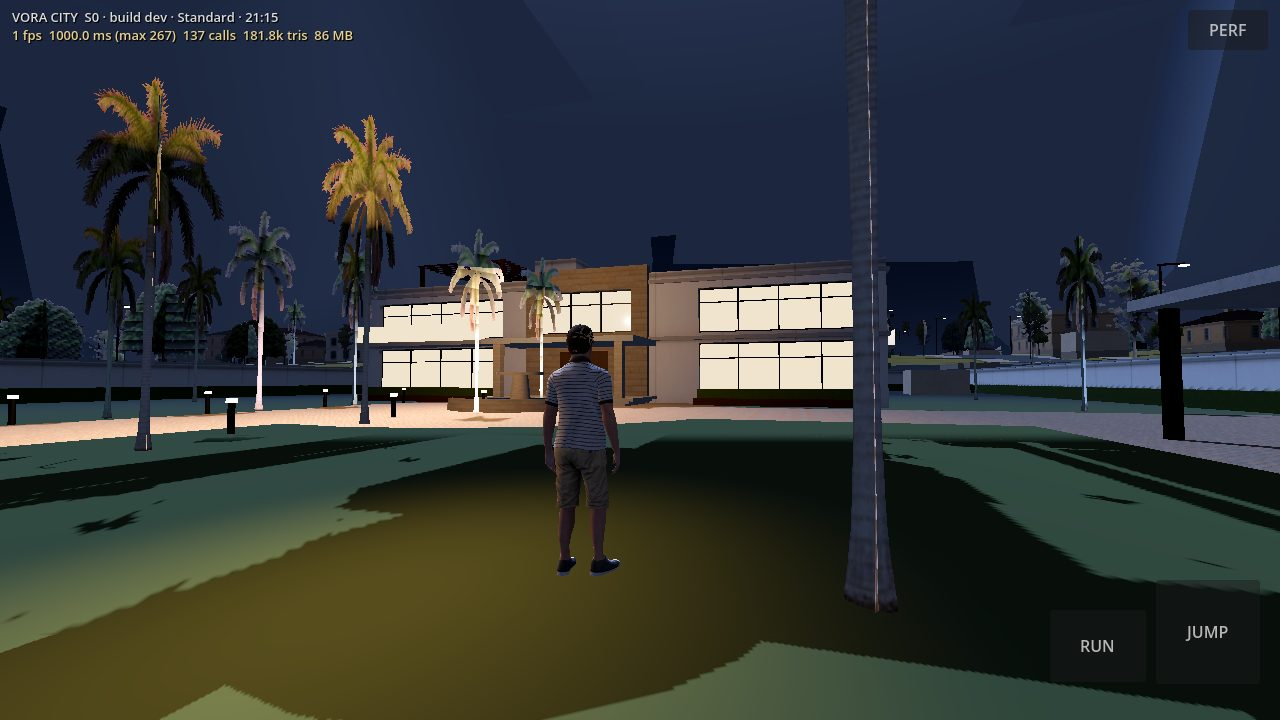
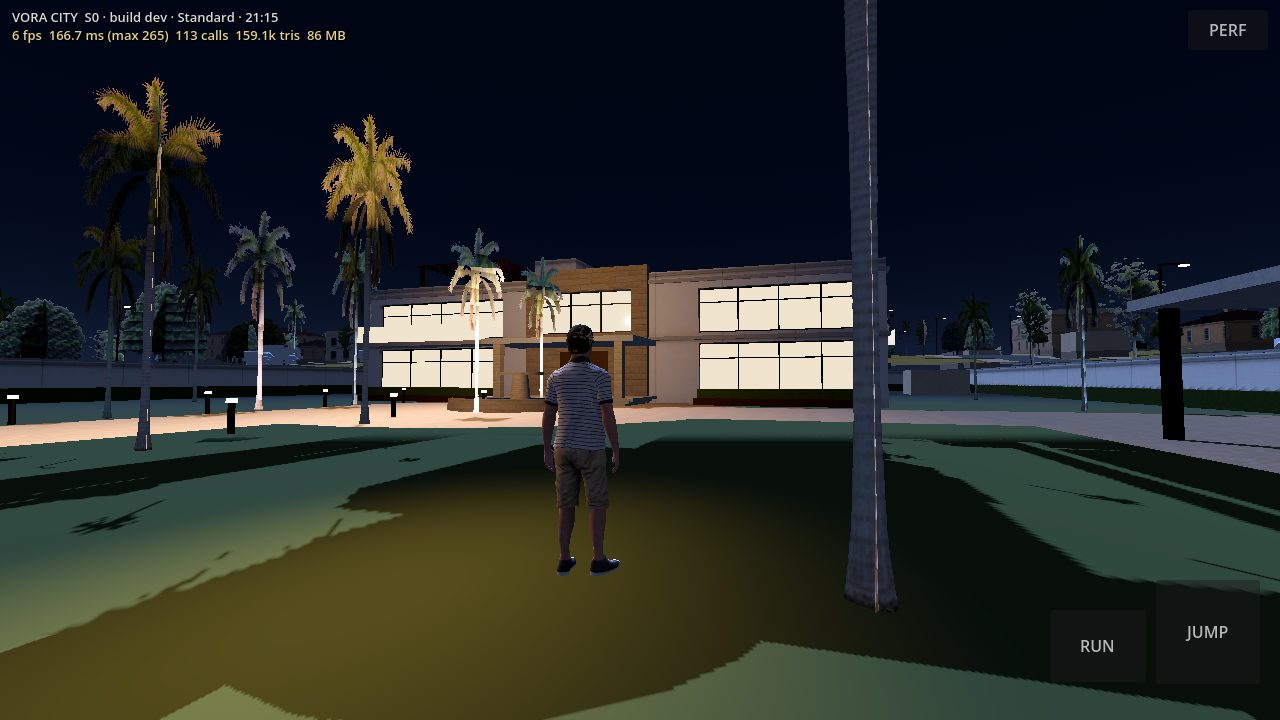
docs: S0 status + progress renders (fixed sky, title)

diff --git a/docs/GODOT.md b/docs/GODOT.md
@@ -86,36 +86,26 @@ server APIs, GDExtension option), memory kills on 2 GB devices (streaming + the 
 
 ## S0 build status (2026-10-16)
 
-**Pipeline live.** Every push runs `.github/workflows/godot-android.yml`: fetch Rocketbox subset (sparse clone,
-textures → ≤512² PNG) + Kenney Car Kit → `--import` → bake mocap library → headless world test → **Android APK export**
-(`vora-city-<sha>-s0-debug.apk`, ~72 MB, artifact) → Xvfb/llvmpipe screenshots at 8 viewpoints × {Lite, Standard}
-→ `ci/evidence` branch + render report. **Gate:** the Lite preset (the 2 GB-phone preset) must stay ≤ 120 draw calls and
-≤ 150k primitives in every shot — first green run: worst 63 calls / 77k primitives.
+Done, verified on renders (local llvmpipe + CI evidence branch `ci/evidence`):
 
-What is in the S0 world (`godot/`):
-- The real North Heights block around JAG House, exported from the city plan (`tools/export_chunk.ts` → `assets/world/s0.json`,
-  260 × 260 m, 2 m heightmap, 26 road edges, 51 buildings / 62 masses, 474 props). Terrain is flattened under roads and on the plateau.
-- Roads with kerbs + paver sidewalks (sidewalks trimmed at junctions), buildings extruded from their footprints with the plan's
-  façade tile/colour, hip/gable/shed/flat roofs with overhangs, plinths buried into the slope, rooftop tanks; palms / trees as
-  alpha-scissor cutouts; lamp posts; parked Kenney cars merged to one mesh each. Whole block = 26 surfaces, ~44k triangles,
-  builds in ~0.3 s.
-- JAG House exterior: compound wall with coping + hedges, stone gate piers with an open steel gate, two-storey white villa with
-  recessed glass openings, stone entrance tower, canopy on columns, steps, balconies with glass balustrades, slab bands, roof
-  pergola + stair bulkhead, pool terrace with loungers, fountain drive circle, carport with the owner's two cars, bollard lights,
-  staff quarters, generator shed, palms along the drive.
-- Sun/sky/day–night tuned for Lagos (sunrise 06:30, sunset 18:45), AgX tonemap, aerial-perspective fog; after dark: emissive
-  lamps/windows + up to 3 (Lite) / 5 / 6 pooled OmniLights that follow the player.
-- Player: Rocketbox `Male_Adult_01`, third-person SpringArm camera, touch stick + look drag + RUN/JUMP, walk 1.40 m/s and run
-  3.07 m/s taken from the clips' root motion (no foot sliding). 12 NPCs: 7 walkers on sidewalk routes, a talking pair at the gate,
-  a phone caller, a police officer at the corner, the gate guard — 20 baked clips, animation paused beyond 70 m.
-- Build card + Perf screen (fps, p10, frame ms, draw calls, primitives, RAM/VRAM, device/GPU, budget verdict, "Copy report",
-  quality presets, time-of-day buttons).
+- Street block + mansion exterior, generated textures (22, no placeholders), day/night cycle,
+  Rocketbox mocap NPCs (12), parked cars (Kenney Car Kit, 10), on-foot controls with kerb step.
+- Title key art `godot/ui/title.png` (source `art/src/brand/title-key-art.png`).
+- CI Lite preset (2 GB phones): worst 59 draw calls / 70.9k primitives — inside the budget gate
+  (<=120 calls, <=150k prims). Standard preset is reported only (158 calls / 208k).
+- APK per commit: `vora-city-<sha>-s0-debug.apk` (~72 MB) in the workflow run artifacts.
 
-All 22 material tiles / tree cutouts are now generated art (`art/src/textures` → `tools/make_textures.py`); no
-procedural placeholders remain. Still open before S0 exit: title key art (`godot/ui/title.png`), and the phone test itself.
+Bugs found by the render loop (keep these in mind for new code):
 
-Local off-screen rendering (fast loop, ~5 s per view): the CI job `tools-xroot.yml` exports a Debian user-space tree with
-Xvfb + Mesa to the branch `tools/xroot-*`; unpack it, start `Xvfb :99 -screen 0 1280x720x24`, then
-`DISPLAY=:99 LIBGL_ALWAYS_SOFTWARE=1 godot --path godot --rendering-driver opengl3 -- --shots=/tmp/shots --quality=standard --only=03`
-(`--shot=name,x,y,z,yaw,pitch,minutes` adds a custom view). Debian 12's Mesa 22.3 mis-renders the Godot sky (white sheets);
-use the Debian 13 tree for faithful skies.
+1. Godot front faces are **clockwise** when seen from the front; all MeshBatch helpers take
+   points counter-clockwise and flip internally. New geometry: a->b->c->d CCW from the front.
+2. `Node.find_children()` never returns the node itself — `_aabb_of()` on a single MeshInstance3D
+   returned an empty AABB, so merged cars were scaled 460x and became "white sheets in the sky"
+   that looked like a sky-shader bug. `tests/test_world.gd` now fails on any mesh larger than 12 m.
+
+Open before S0 exit: the user's phone verdict (Perf screen -> "Copy report").
+
+Dev switches (user args after `--`): `--quality=lite|standard|high`, `--shots=<dir>`
+(`--only=<prefix>`, `--shot=name,x,y,z,yaw,pitch,minutes`), `--title-shot=<dir>`,
+`--dbg=noskirt,nofog,defaultsky,nosky`.
+
